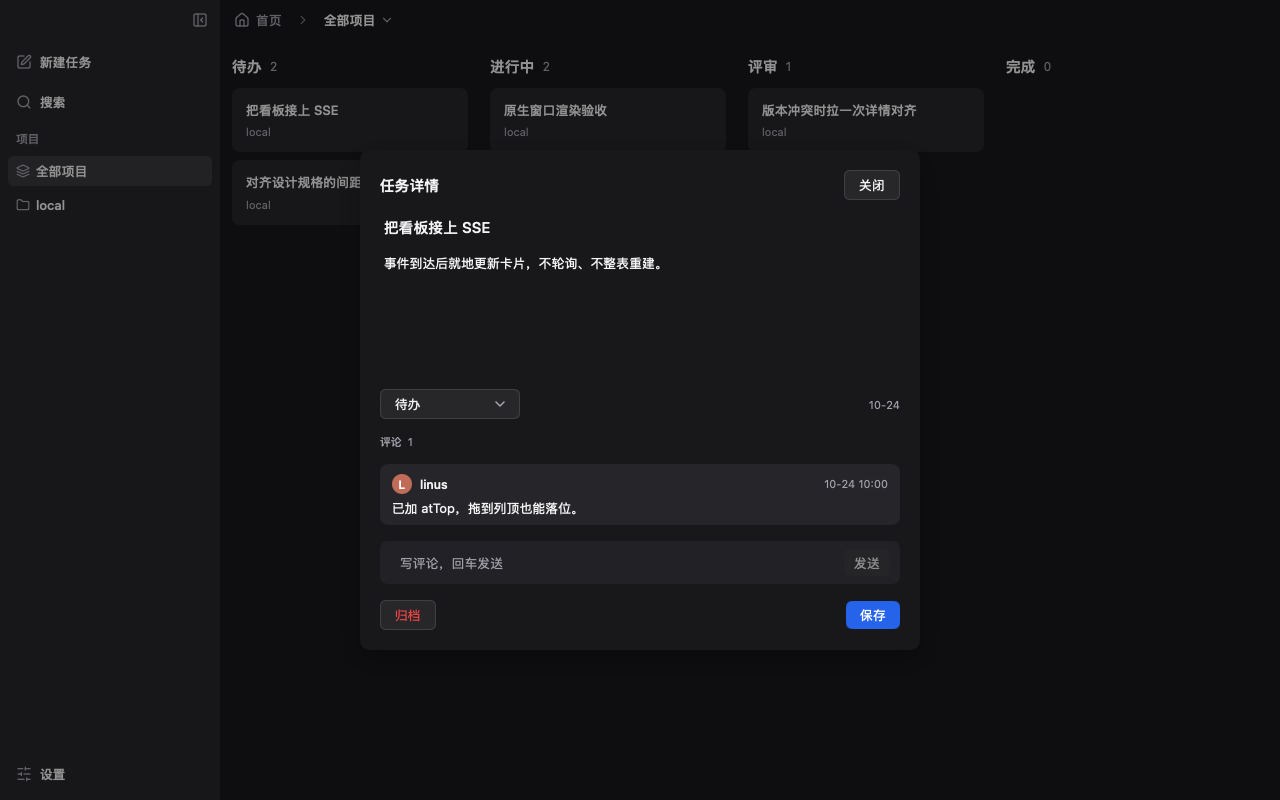
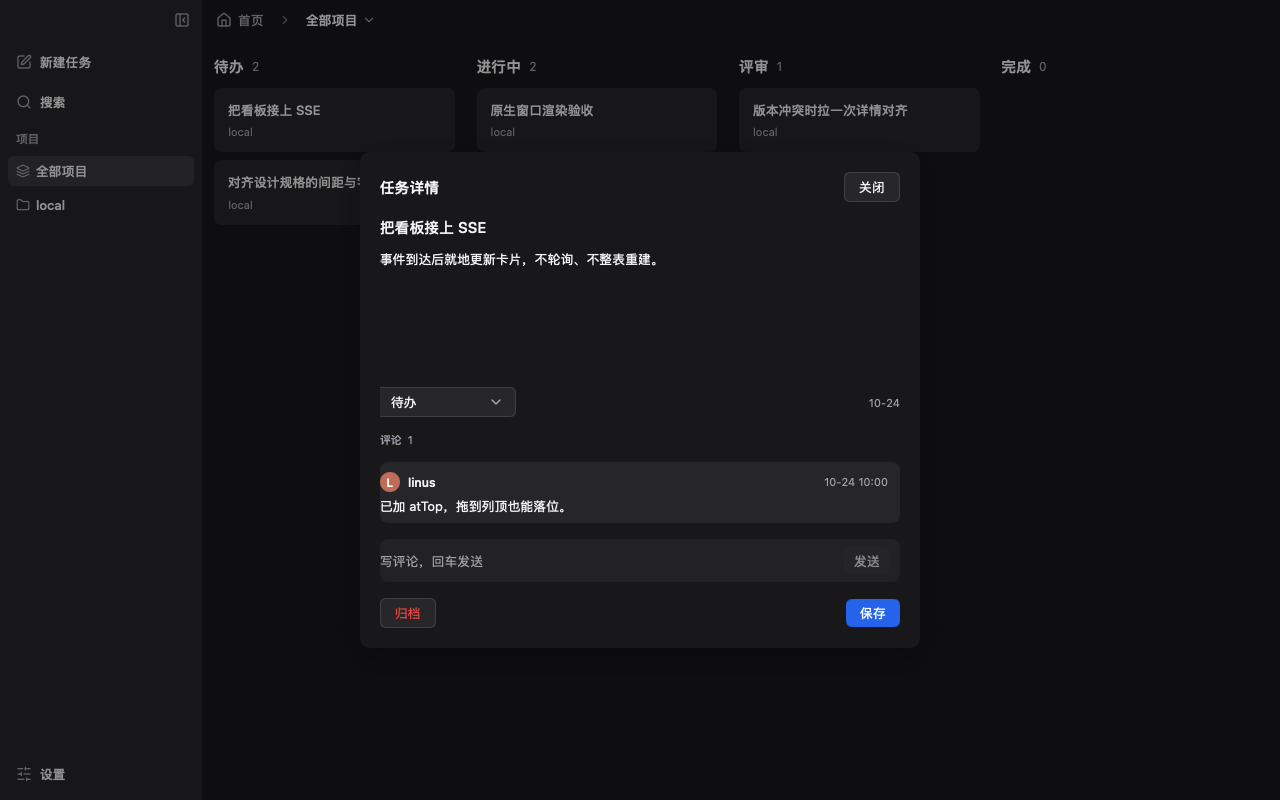
LOCAL-33: align every row of the task detail sheet on one left edge
The sheet's content edge is x=380. The title and body harnessed the
TextInput/TextArea's own Padding(0.5,1), putting their text 4px right of
the header; the 移动到列 select drew its hairline on the edge but its
label and truncation 6px in; comment cards and the composer each added
their own left inset. Zero the text fields' padding, pull the select's
box onto the edge with MarginStart(-Space(1)), and drop the left inset
of the comment card and composer surfaces.

TestDetailSheetLeftEdge reads the real layout geometry and fails on the
old offsets (Δ16/Δ14/Δ6); testdata renders are regenerated.

diff --git a/cmd/taskboard/view.go b/cmd/taskboard/view.go
@@ -108,6 +108,14 @@ func (b *board) view(c *ui.Context) {
 	b.ensureSidebarWidth(t)
 	// Cmd+B toggles the project sidebar (same as the panel icon chip).
 	c.OnShortcut(ui.Cmd, ui.KeyB, func() { b.toggleSidebar() })
+	// Cmd+N opens the create-task sheet (same as the sidebar 新建任务 row).
+	// Window shortcuts wait while a modal is up, so it never fires under
+	// the detail dialog, search, or a form.
+	c.OnShortcut(ui.Cmd, ui.KeyN, func() { b.openTaskForm(b.defaultTaskColumnID()) })
+	// Cmd+Shift+L cycles 外观 (跟随系统 → 浅色 → 深色), the same setting the
+	// settings sheet's 外观 row carries; it works under a modal too, since
+	// changing the appearance of an open sheet is safe.
+	c.OnShortcut(ui.Cmd|ui.Shift, ui.KeyL, b.cycleAppearance)
 	content := func() {
 		ui.Column(c).Fill().Children(func() {
 			b.topBar(c, t)
@@ -272,37 +280,55 @@ func (b *board) productionTopBar(c *ui.Context, t *ui.Theme) {
 // railEase is how the sidebar arrives: fast out, so the board gets its room
 // back almost at once, and short enough to read as a snap rather than a slide.
 const (
-	railOpenFor     = 150 * time.Millisecond
-	railCollapseFor = 130 * time.Millisecond
+	railOpenFor     = 170 * time.Millisecond
+	railCollapseFor = 150 * time.Millisecond
 )
 
-// railWidth is the sidebar's width for this frame, animated as a drawer: it
-// must be asked on an element (split) so MyGo can keep the value between
-// frames. Reduce Motion lands it at once.
+// railWidth is the sidebar's width for this frame, animated as a drawer: the
+// box narrows while its content keeps the resting width, so the rail reads as
+// sliding under the window edge rather than as squeezing.
+//
+// The animation is driven off the board's own state, not off side effects, so
+// it is safe to ask more than once in a frame (MyGo builds a view repeatedly):
+// b.railAt is when the current slide began and b.railFrom where it began.
 func (b *board) railWidth(split ui.Element, c *ui.Context, t *ui.Theme) float32 {
-	open := b.sidebarVisible()
 	b.ensureSidebarWidth(t)
+	if len(b.projects) == 0 {
+		// No rail at all, and nothing to animate from once one arrives.
+		b.railArmed, b.railNow = false, 0
+		return 0
+	}
+	open := b.sidebarVisible()
 	target := float32(0)
 	if open {
 		target = b.sidebarW
 	}
-	if b.sidebarW <= 0 {
+	// The rail's first appearance lands at once: the window opens with it in
+	// place, where a slide from zero would leave the sidebar absent for
+	// several frames. Arm only now, so the first real toggle animates.
+	if !b.railArmed {
+		b.railArmed, b.railNow = true, target
 		return target
 	}
-	if !b.railStarted {
-		// First frame: no animation, the window opens with the rail in place.
-		// Jump plants the value so the first toggle animates from here
-		// instead of starting at its target.
-		b.railStarted = true
-		return split.Jump(railKey, target)
+	now := c.Now()
+	if b.railNow == target {
+		return target
+	}
+	if b.railAt.IsZero() || b.railTo != target {
+		// A new slide starts here, from whatever is on screen.
+		b.railAt, b.railFrom, b.railTo = now, b.railNow, target
 	}
 	d := railOpenFor
 	if !open {
 		d = railCollapseFor
 	}
-	v := split.AnimateWith(railKey, target, d, ui.EaseOut)
-	// Land exactly on the target: the last sub-DIP frames would otherwise
-	// leave a 0.4 DIP sliver of rail behind.
+	elapsed := now.Sub(b.railAt)
+	if elapsed >= d {
+		b.railNow = target
+		return target
+	}
+	p := float32(elapsed) / float32(d)
+	v := b.railFrom + (target-b.railFrom)*ui.EaseOut(min(max(p, 0), 1))
 	if absDiff(v, target) < 0.75 {
 		v = target
 	}
@@ -1177,16 +1203,21 @@ func (b *board) detailView(c *ui.Context, t *ui.Theme) {
 					// Title / body stay as TextInput / TextArea always (borderless,
 					// transparent). Swapping Text ↔ input on hover shifted layout
 					// because the widgets disagree on intrinsic padding.
+					//
+					// Padding is zero, not "small": the input's own inset would push
+					// the title and the body a step to the right of the header, the
+					// select and the comment cards, which read as a ragged left
+					// margin down the sheet.
 					ui.TextInput(c, &d.title).Label("任务标题").Placeholder("任务标题").
 						FillWidth().FontSize(fmd(t)).FontWeight(500).
 						BorderWidth(0).Background(ui.Transparent).
-						Padding(t.Space(0.5), t.Space(1))
+						Padding(0, 0)
 					d.editTitle = false
 
 					ui.TextArea(c, &d.body).Label("任务正文").Placeholder("添加任务描述…").
 						FillWidth().MinHeight(t.Space(30)).
 						BorderWidth(0).Background(ui.Transparent).
-						Padding(t.Space(0.5), t.Space(1))
+						Padding(0, 0)
 					d.editBody = false
 
 					ui.Row(c).FillWidth().AlignItems(ui.Center).Gap(t.Space(3)).Children(func() {
@@ -1198,7 +1229,9 @@ func (b *board) detailView(c *ui.Context, t *ui.Theme) {
 								d.column = names[0]
 							}
 						}
-						if ui.Select(c, &d.column, names).Label("移动到列").Changed() {
+						// The select's hairline is the row's left edge, so -Space(1)
+						// moves that edge onto the same line as the text above it.
+						if ui.Select(c, &d.column, names).Label("移动到列").MarginStart(-t.Space(1)).Changed() {
 							if colID := b.columnID(d.column); colID != "" {
 								b.moveTask(d.id, colID, "", false)
 							}
@@ -1226,8 +1259,12 @@ func (b *board) detailView(c *ui.Context, t *ui.Theme) {
 						ui.Column(c).FillWidth().Gap(t.Space(2)).Children(func() {
 							for i := range d.comments {
 								cm := &d.comments[i]
+								// The card's fill, not its inner padding, is the row
+								// that must line up: no inset on the sheet's left, so
+								// the comment's first glyph sits on the same edge as
+								// the title above it.
 								ui.Box(c.Key("c-"+cm.ID)).FillWidth().
-									Padding(t.Space(2.5), t.Space(3)).Gap(t.Space(1.5)).
+									Padding(t.Space(2.5), t.Space(3), t.Space(2.5), 0).Gap(t.Space(1.5)).
 									Radius(t.Radius + 2).BorderWidth(0).
 									Background(t.SurfaceHover.Alpha(0.55)).Children(func() {
 									ui.Row(c).FillWidth().Gap(t.Space(2)).AlignItems(ui.Center).Children(func() {
@@ -1244,12 +1281,16 @@ func (b *board) detailView(c *ui.Context, t *ui.Theme) {
 					}
 				})
 			})
-			ui.Box(c).FillWidth().Padding(t.Space(2), t.Space(2.5)).Gap(t.Space(2)).
+			// The composer's own box edges the sheet on the left (padding 0 in
+			// front) so the placeholder shares the row edge with every other
+			// line; its 写评论 input drops its inner inset for the same reason.
+			ui.Box(c).FillWidth().Padding(t.Space(2), t.Space(2.5), t.Space(2), 0).Gap(t.Space(2)).
 				Radius(t.Radius + 2).BorderWidth(0).Background(t.SurfaceHover.Alpha(0.4)).
 				Children(func() {
 					ui.Row(c).FillWidth().Gap(t.Space(2)).AlignItems(ui.Center).Children(func() {
 						input := ui.TextInput(c, &d.comment).Placeholder("写评论，回车发送").Label("写评论").
-							Grow(1).Disabled(b.commenting).BorderWidth(0).Background(ui.Transparent)
+							Grow(1).Disabled(b.commenting).BorderWidth(0).Background(ui.Transparent).
+							Padding(0, 0)
 						if b.commenting {
 							loading.BouncingDots(c, loading.Options{Size: 12, Color: t.Accent}).Label("正在发送评论")
 						}
@@ -1440,12 +1481,68 @@ func (b *board) defaultTaskColumnID() string {
 
 func (b *board) openSettings() { b.settings = &settings{open: true} }
 
+// setAppearance makes a the chrome's 外观, now and on the next launch. The
+// frame follows on the next build (b.view asks mygo's appearance override
+// on every frame), so the board, its modals and this sheet all turn on the
+// same click.
+func (b *board) setAppearance(a appearance) {
+	if !a.valid() || a == b.prefs.Appearance {
+		return
+	}
+	b.prefs.Appearance = a
+	mygo.Theme.SetSource(a.source())
+	_ = saveUIPrefs(b.prefs)
+	if b.frameCtx != nil {
+		b.frameCtx.Invalidate()
+	}
+}
+
+// cycleAppearance steps 跟随系统 → 浅色 → 深色 → 跟随系统, as ⌘⇧L does.
+func (b *board) cycleAppearance() { b.setAppearance(b.prefs.Appearance.next()) }
+
+// appearanceIndex is the appearance in appearanceChoices, for the
+// segmented control, which works in indexes.
+func (b *board) appearanceIndex() int {
+	for i, choice := range appearanceChoices {
+		if choice.value == b.prefs.Appearance {
+			return i
+		}
+	}
+	return 0
+}
+
+// settingsView is the preferences sheet. Every row says what it sets; the
+// controls beside them carry the values, so no row repeats its own name
+// inside the control.
 func (b *board) settingsView(c *ui.Context, t *ui.Theme) {
 	s := b.settings
 	open := s.open
 	ui.Modal(c, &open, func() {
 		ui.Column(c).Width(t.Space(80)).Gap(t.Space(3)).Children(func() {
 			ui.Text(c, "设置").FontSize(fmd(t)).FontWeight(600)
+			// 外观: the segmented control turns the chrome at once, and the
+			// row's right-click menu offers the same three choices by name.
+			row := ui.Row(c).FillWidth().Gap(t.Space(2)).AlignItems(ui.Center).Children(func() {
+				ui.Text(c, "外观").FontSize(t.FontSize)
+				ui.Spacer(c)
+				selected := b.appearanceIndex()
+				labels := make([]string, len(appearanceChoices))
+				for i, choice := range appearanceChoices {
+					labels[i] = choice.label
+				}
+				if ui.Segmented(c, &selected, labels...).
+					Label("外观，当前" + b.prefs.Appearance.label()).Changed() {
+					b.setAppearance(appearanceChoices[selected].value)
+				}
+			})
+			row.ContextMenu(func(m *ui.Menu) {
+				for _, choice := range appearanceChoices {
+					item := m.Item(choice.label).Checked(choice.value == b.prefs.Appearance)
+					if item.Chosen() {
+						b.setAppearance(choice.value)
+					}
+				}
+			})
 			if ui.Checkbox(c, &b.prefs.TitleOnlyCards, "卡片仅显示标题").
 				Label("卡片仅显示标题").Changed() {
 				_ = saveUIPrefs(b.prefs)

diff --git a/cmd/taskboard/detail_left_align_test.go b/cmd/taskboard/detail_left_align_test.go
@@ -1,0 +1,73 @@
+package main
+
+import (
+	"path/filepath"
+	"testing"
+
+	"github.com/egoist/mygo"
+	"github.com/egoist/mygo/ui"
+)
+
+// TestDetailSheetLeftEdge pins LOCAL-33: every row of the 任务详情 sheet —
+// the sheet title, the task title, the body, the 移动到列 select, the 评论
+// label, the comment cards (avatar, author, text), the composer, and the
+// 归档 footer — starts on one left edge inside the dialog.
+//
+// Before the fix the rows disagreed by up to 16 px: the title and body
+// carried the input's own inset, the select drew its hairline a step in,
+// the comment card's surface and its author sat inside a wider padding,
+// and the composer inherited the 写评论 input's inset. Each row is checked
+// against the sheet title's own text box, so a future Padding() cannot
+// quietly re-break the alignment.
+func TestDetailSheetLeftEdge(t *testing.T) {
+	dir := t.TempDir()
+	// Isolate prefs: frames can saveUIPrefs, and the prefs path derives
+	// from TASKBOARD_DB — point it inside this test's dir.
+	t.Setenv("TASKBOARD_DB", filepath.Join(dir, "tb.db"))
+	mygo.App.SetPath(mygo.PathUserData, dir)
+	t.Cleanup(func() { mygo.App.SetPath(mygo.PathUserData, "") })
+
+	b := newBoard(seedBoard())
+	tt := ui.NewTester(b.view, 1280, 800)
+	tt.SetDark(true)
+	waitFor(t, tt, "看板载入", func() bool { return b.task("t-1") != nil })
+	b.openDetail(*b.task("t-1"))
+	waitFor(t, tt, "评论载入", func() bool { return b.detail != nil && !b.detail.loading })
+	settle(t, tt)
+
+	head, ok := tt.Find("任务详情")
+	if !ok {
+		t.Fatal("detail sheet title missing")
+	}
+	left := head.X
+
+	for _, row := range []string{
+		"任务标题",  // title input
+		"任务正文",  // body text area
+		"移动到列",  // select (its hairline is its box)
+		"评论",    // section label
+		"linus", // comment author, behind the avatar
+		"写评论",   // composer input
+		"归档任务",  // footer button
+	} {
+		r, found := tt.Find(row)
+		if !found {
+			t.Errorf("%s missing", row)
+			continue
+		}
+		if d := r.X - left; d < -0.5 || d > 0.5 {
+			t.Errorf("%s left %.1f vs sheet text left %.1f (Δ%.1f), want aligned", row, r.X, left, d)
+		}
+	}
+
+	// The avatar's initial sits in the middle of a 20 px circle; the circle
+	// is the comment card's first child, so its halo should start on the
+	// sheet's edge.
+	initial, ok := tt.Find("L")
+	if !ok {
+		t.Fatal("comment avatar missing")
+	}
+	if d := initial.X - left; d < -0.5 || d > 8 {
+		t.Errorf("comment avatar initial left %.1f vs sheet text left %.1f (Δ%.1f), want the 20 px avatar flush left", initial.X, left, d)
+	}
+}
